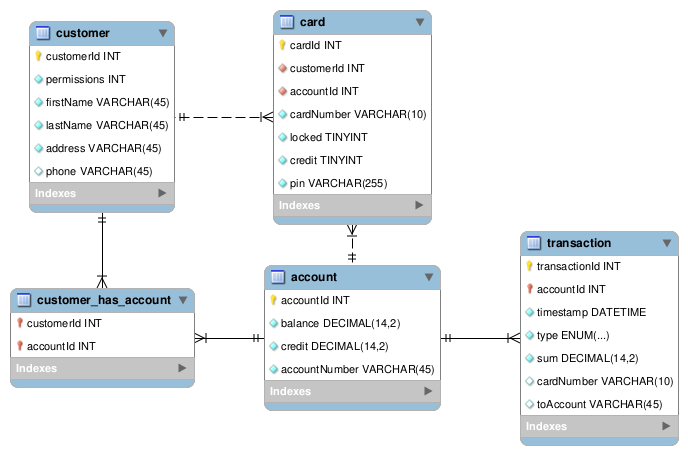
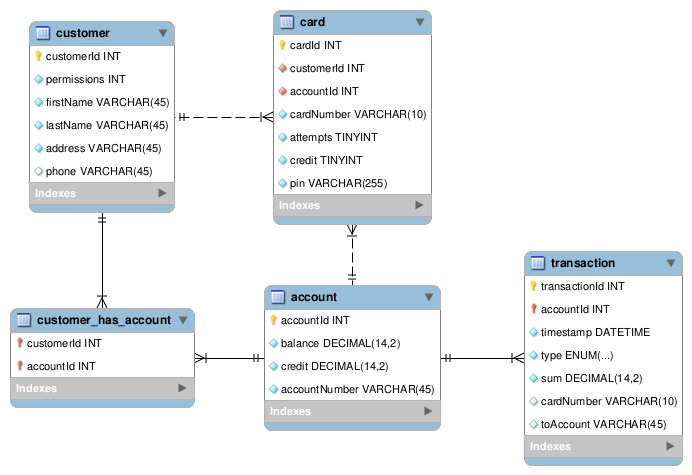
atm-api/database: Replace locked field with attempts

Changed region(s): [[0.0, 0.4923, 1.0, 0.9846], [0.0305, 0.0, 0.641, 0.5231]]

diff --git a/atm-api/models/crud/card.js b/atm-api/models/crud/card.js
@@ -13,18 +13,18 @@ module.exports = {
     add: async (card) => {
         const hash = await bcrypt.hash(card.pin, saltRounds);
         return db.query(
-            "INSERT INTO card (cardId, customerId, accountId, cardNumber, locked, credit, pin) VALUES(?, ?, ?, ?, ?, ?, ?)",
-            [card.cardId, card.customerId, card.accountId, card.cardNumber, card.locked, card.credit, hash]
+            "INSERT INTO card (cardId, customerId, accountId, cardNumber, attempts, credit, pin) VALUES(?, ?, ?, ?, ?, ?, ?, ?)",
+            [ card.cardId, card.customerId, card.accountId, card.cardNumber, card.attempts, card.credit, hash ]
         );
     },
     delete: (id) => {
         return db.query("DELETE FROM card WHERE cardId=?", [ id ]);
     },
-    update: async (id, card) => {
-        const hash = await bcrypt.hash(card.pin, saltRounds);
+    update: async (id, card, useRawPin) => { // Need to allow raw pin for cases where using an already hashed password
+        const hash = useRawPin ? card.pin : await bcrypt.hash(card.pin, saltRounds);
         return db.query(
-            "UPDATE card SET customerId=?, accountId=?, cardNumber=?, locked=?, credit=?, pin=? WHERE cardId=?",
-            [card.customerId, card.accountId, card.cardNumber, card.locked, card.credit, hash, id]
+            "UPDATE card SET customerId=?, accountId=?, cardNumber=?, attempts=?, credit=?, pin=? WHERE cardId=?",
+            [ card.customerId, card.accountId, card.cardNumber, card.attempts, card.credit, hash, id ]
         );
     },
     getByCardNumber: (card_number) => {
